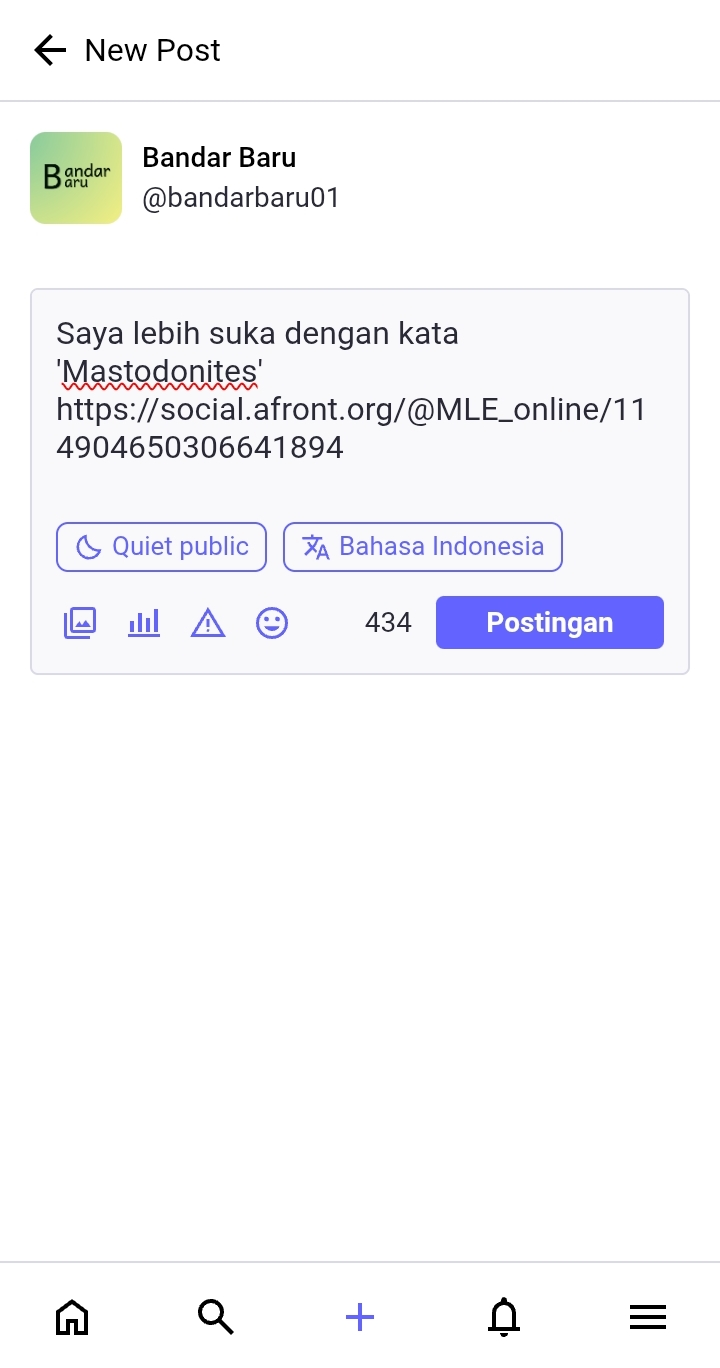
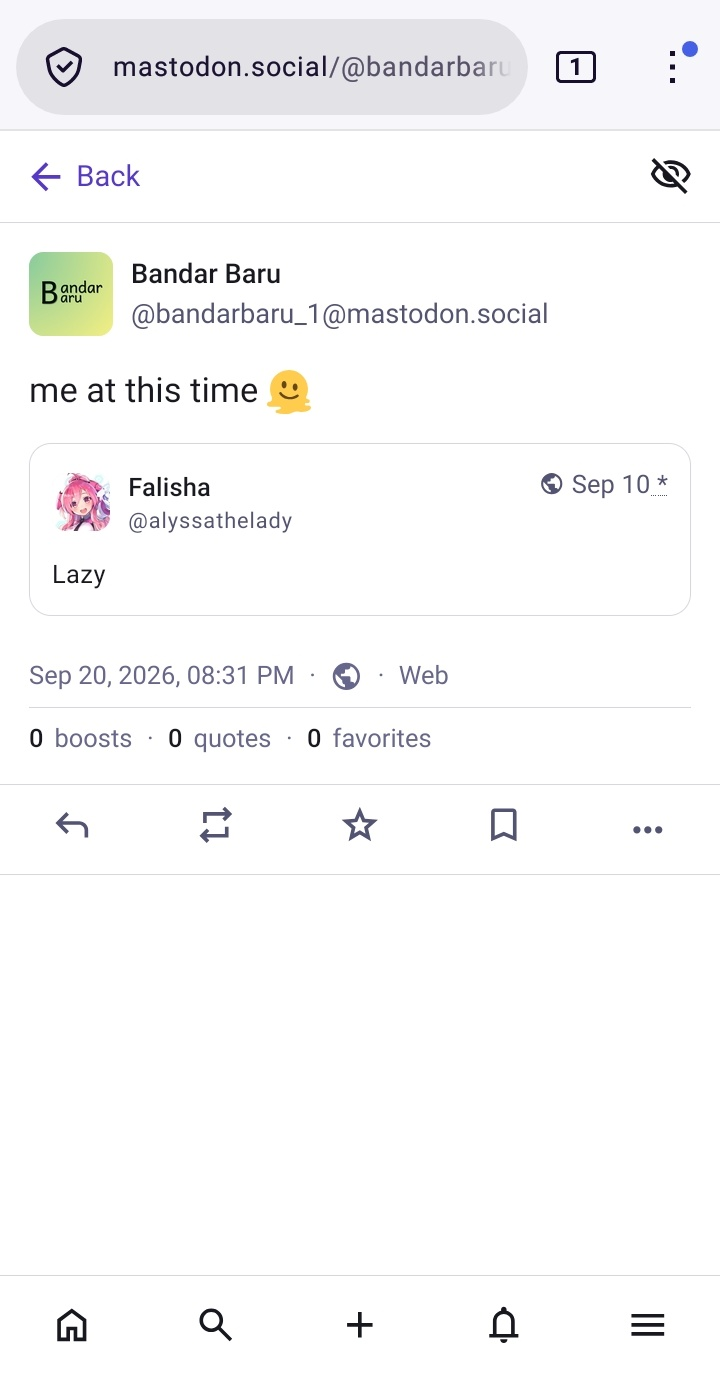
Update page 13 to adapt new quoting

diff --git a/pages/13 - Mengutip Postingan Pengguna Lain.md b/pages/13 - Mengutip Postingan Pengguna Lain.md
@@ -1,10 +1,8 @@
 # Mengutip Postingan Pengguna Lain (Quote Repost)
 
-> Per tulisan ini diterbitkan, dilaporkan Mastodon sedang mengembangkan fitur Quote Repost secara native. Halaman ini akan saya perbarui setelah fitur tersebut telah dirilis.
+Kita bisa mengutip postingan orang lain sembari ikut di-repost (quote repost) dengan cara berikut:
 
-Mungkin kalian bingung, bagaimana untuk mengutip postingan pengguna lain (quote repost atau quote retweet (QRT) dalam istilah Twitter)?
-
-Untuk saat ini, pengguna menggunakan cara tradisional untuk mengutip postingan orang lain. Misalnya, kita ingin quote repost postingan berikut. Maka di bagian bawah postingan, klik titik tiga di pojok kanan bawah, klik *salin tautan ke kiriman (copy link to post)*. Maka, otomatis tautan postingan tersebut akan tersalin ke clipboard kita.
+Klik tombol *Repost*, lalu klik *Quote*.
 
 <div align="center">
   <div>
@@ -13,12 +11,11 @@ Untuk saat ini, pengguna menggunakan cara tradisional untuk mengutip postingan o
   </div>
 </div>
 
-Kemudian kita buat post baru, tempel (atau klik paste) di kolom postingan, kemudian tinggal tambahkan narasi sesuai keinginan kita, lalu klik *Postingan (post)*.
+Kemudian cukup kita menambahkan isi narasi sesuai keinginan kita, lalu klik *Post*.
 
 <div align="center">
   <div>
     <img src="../assets/13pic-03.jpg" width="30%" />
-    <img src="../assets/13pic-04.jpg" width="30%" />
   </div>
 </div>
 
@@ -26,7 +23,41 @@ Maka, postingannya akan tampil seperti ini.
 
 <div align="center">
   <div>
+    <img src="../assets/13pic-04.jpg" width="30%" />
+  </div>
+</div>
+
+Ada kalanya, sebuah postingan tidak dapat di-quote. Biasanya ini terjadi apabila postingan tersebut berasal dari peladen non-Mastodon atau yang tidak didukung dengan fitur quote-posting Mastodon secara native.
+
+<div align="center">
+  <div>
     <img src="../assets/13pic-05.jpg" width="30%" />
+  </div>
+</div>
+
+Maka kita bisa melakukan quote posting dengan cara manual. Misalnya, kita ingin quote repost postingan berikut. Maka di bagian bawah postingan, klik titik tiga di pojok kanan bawah, klik *salin tautan ke kiriman (copy link to post)*. Maka, otomatis tautan postingan tersebut akan tersalin ke clipboard kita.
+
+<div align="center">
+  <div>
+    <img src="../assets/13pic-06.jpg" width="30%" />
+    <img src="../assets/13pic-07.jpg" width="30%" />
+  </div>
+</div>
+
+Kemudian kita buat post baru, tempel (atau klik paste) di kolom postingan, kemudian tinggal tambahkan narasi sesuai keinginan kita, lalu klik *Postingan (post)*.
+
+<div align="center">
+  <div>
+    <img src="../assets/13pic-08.jpg" width="30%" />
+    <img src="../assets/13pic-09.jpg" width="30%" />
+  </div>
+</div>
+
+Maka, postingannya akan tampil seperti ini.
+
+<div align="center">
+  <div>
+    <img src="../assets/13pic-10.jpg" width="30%" />
   </div>
 </div>
 
@@ -36,7 +67,7 @@ Jangan khawatir! Karena di aplikasi pihak ke-tiga misalnya, postingan tsb. akan 
 
 <div align="center">
   <div>
-    <img src="../assets/13pic-06.jpg" width="30%" />
+    <img src="../assets/13pic-11.jpg" width="30%" />
   </div>
 </div>
 

diff --git a/README.md b/README.md
@@ -1,6 +1,6 @@
 # Panduan Sederhana Penggunaan Mastodon Dalam Bahasa Indonesia
 
-> Panduan ini adalah panduan yang tidak resmi (*unofficial guides*) yang disusun oleh ["Bandar Baru"](https://mastodon.social/@bandarbaru_1) untuk memperkenalkan Mastodon kepada khalayak pengguna internet di Indonesia yang disesuaikan dengan bahasa yang lebih dimengerti. Panduan ini sama sekali **tidak memiliki keterikatan, berafiliasi, serta didukung resmi** oleh Mastodon GmbH serta Mastodon Inc. (***This project is not affiliated with or endorsed by Mastodon GmbH or Mastodon Inc.***). Baik Mastodon GmbH serta Mastodon Inc. tidak memiliki kontrol dan tanggung jawab editorial terhadap isi tulisan pada panduan ini.
+> Panduan ini adalah panduan yang tidak resmi (*unofficial guides*) yang disusun oleh ["Bandar Baru"](https://mastodon.social/@bandarbaru_1) untuk memperkenalkan Mastodon kepada khalayak pengguna internet di Indonesia yang disesuaikan dengan bahasa dan kontekstual yang lebih dimengerti. Panduan ini sama sekali **tidak memiliki keterikatan, berafiliasi, serta didukung resmi** oleh Mastodon GmbH serta Mastodon Inc. (***This project is not affiliated with or endorsed by Mastodon GmbH or Mastodon Inc.***). Baik Mastodon GmbH serta Mastodon Inc. tidak memiliki kontrol dan tanggung jawab editorial terhadap isi tulisan pada panduan ini.
 
 <div align="center">
   <div>
